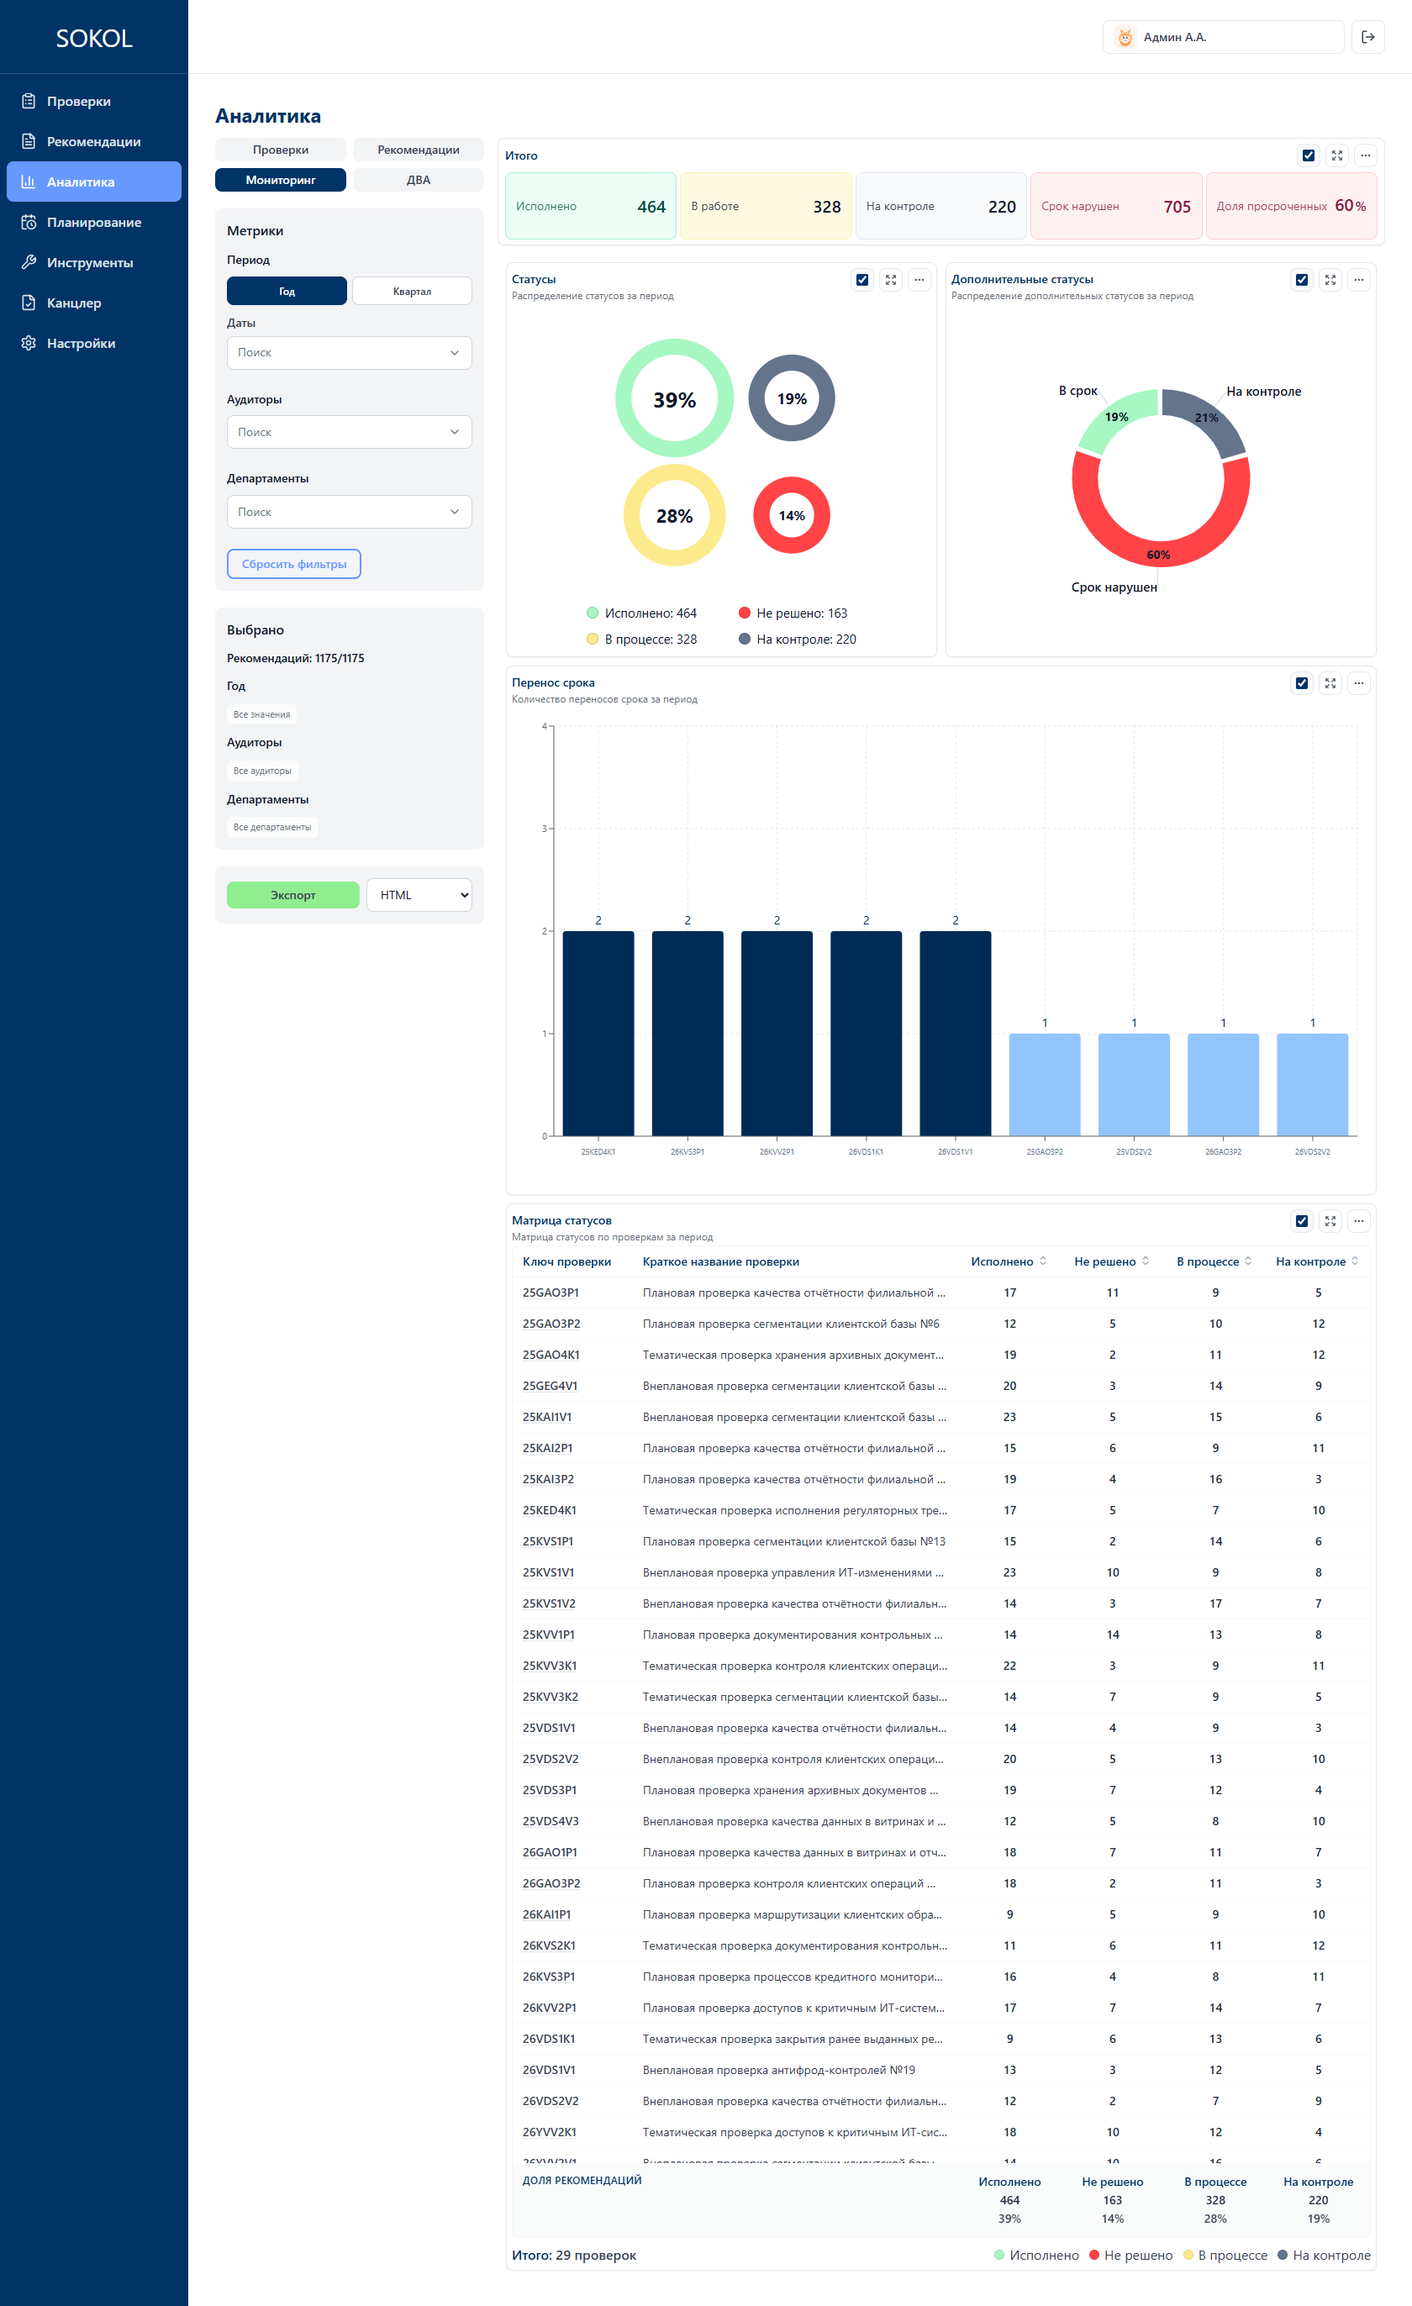
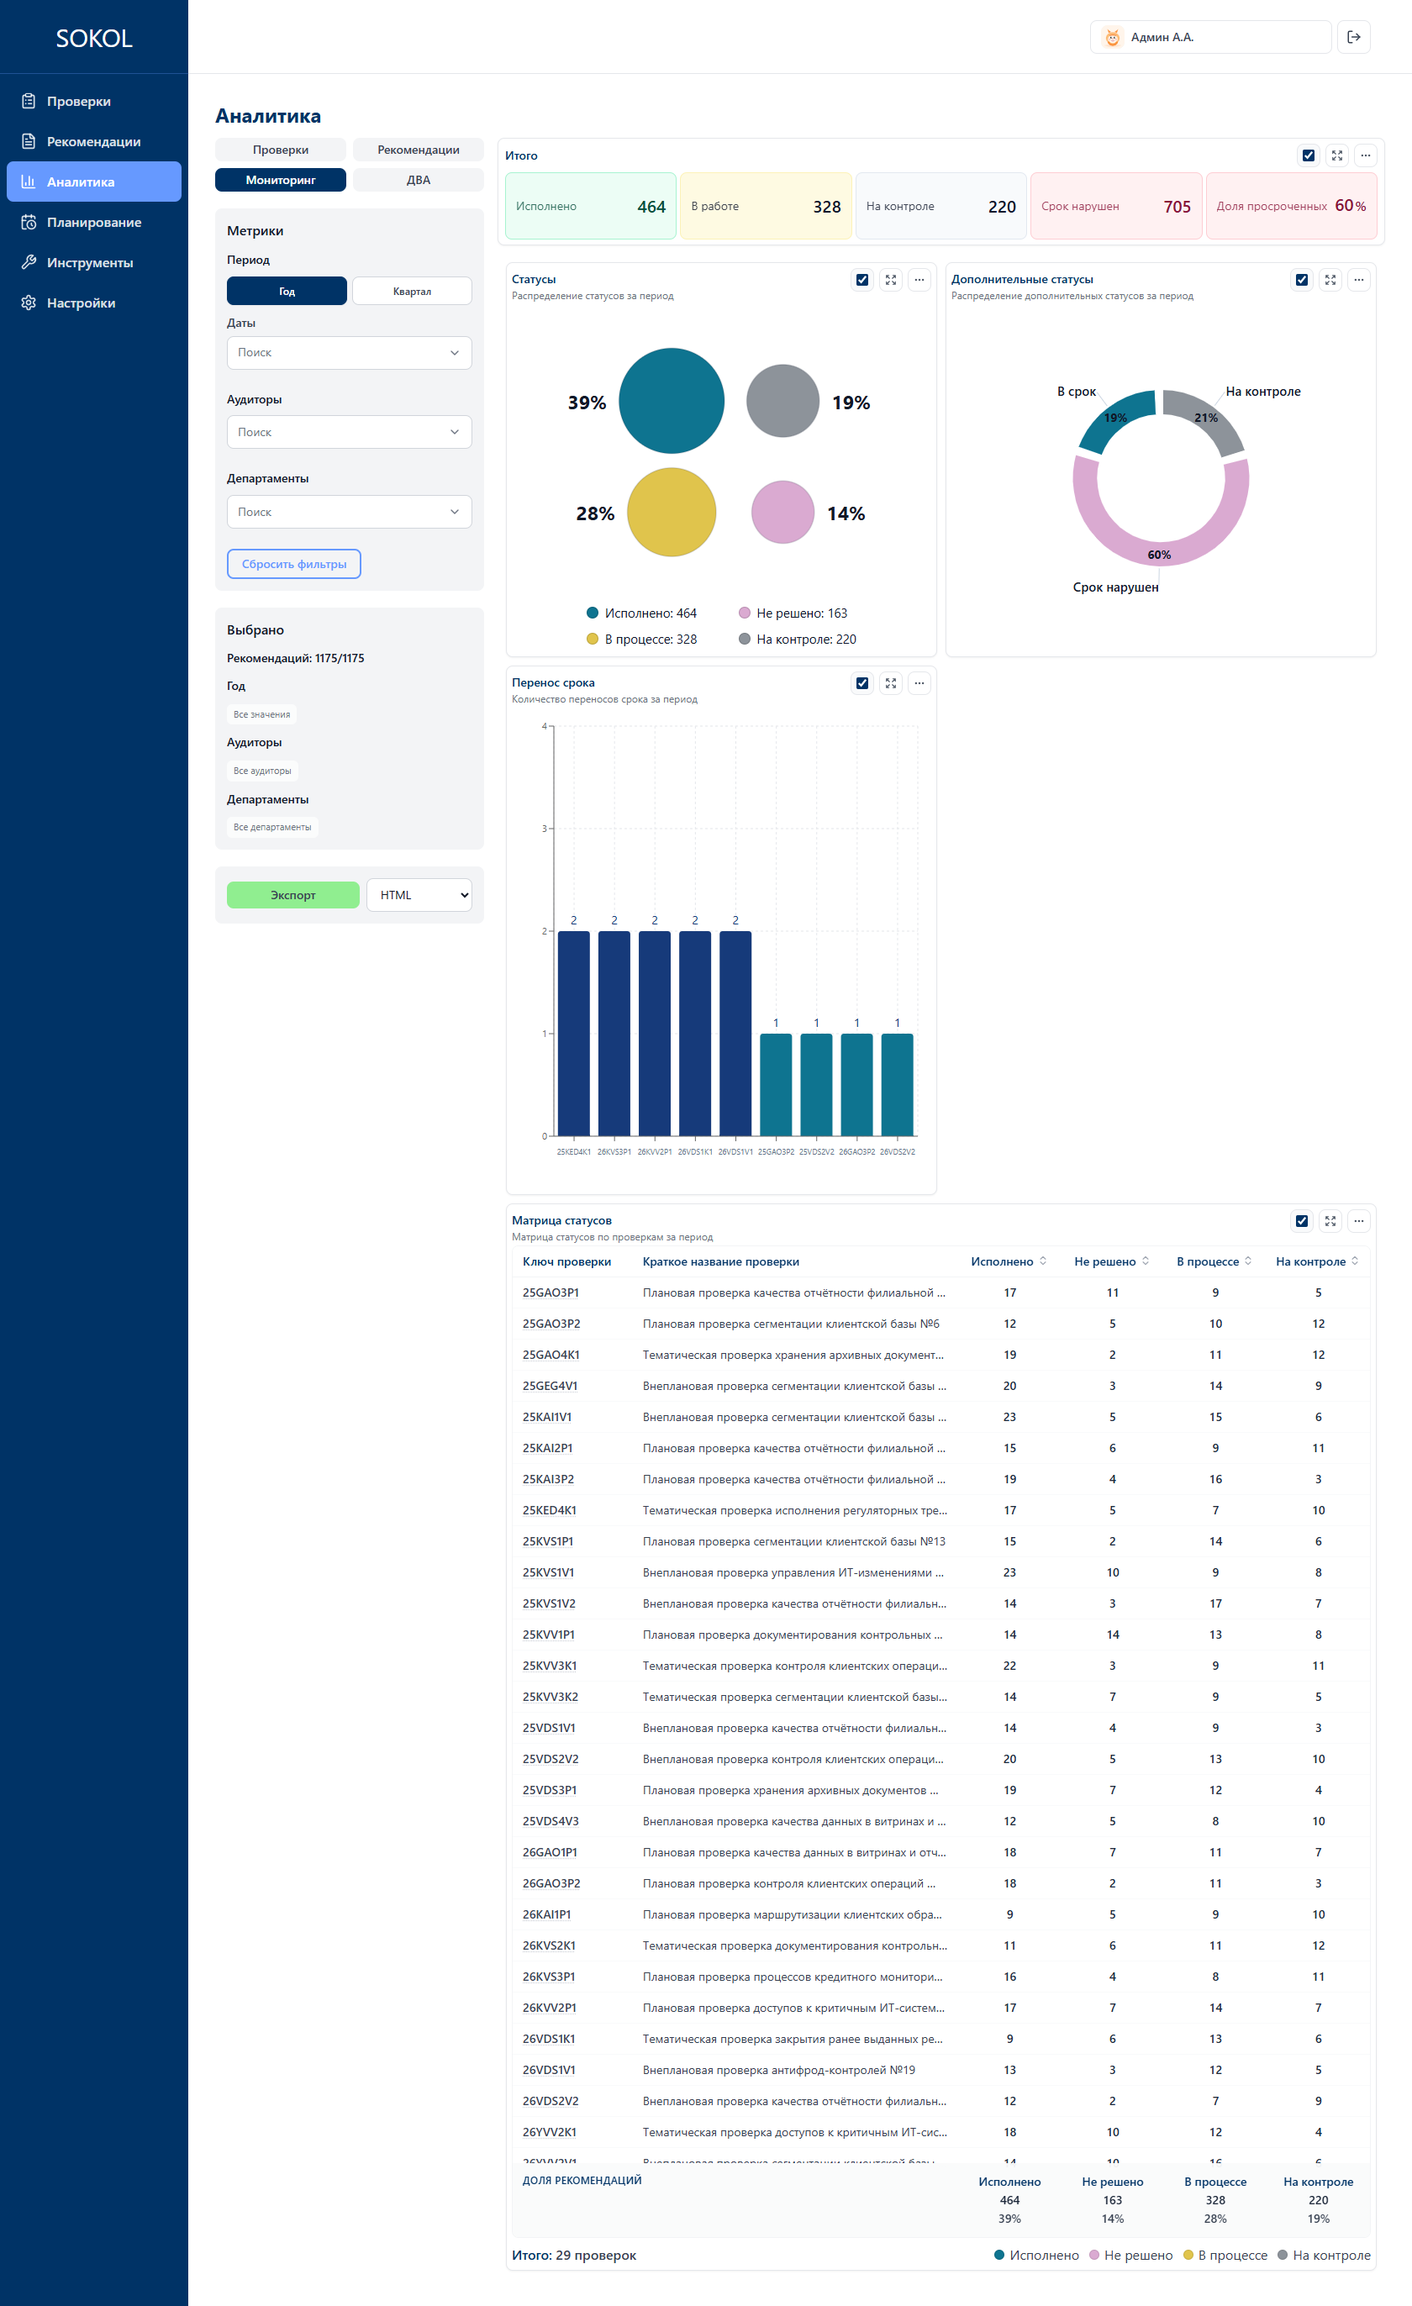
demo

diff --git a/sokol-frontend/src/components/analytics/MonitoringAnalyticsDashboard.tsx b/sokol-frontend/src/components/analytics/MonitoringAnalyticsDashboard.tsx
@@ -19,6 +19,7 @@ import { AnalyticsFilterSidebar } from './AnalyticsFilterSidebar';
 import { AnalyticsSelectionSummary, filterSelectionItem } from './AnalyticsSelectionSummary';
 import {
   ChartCard,
+  CHART_AXIS_TICK,
   CHART_TOOLTIP_STYLE,
   CHART_VALUE_LABEL_SIZE,
   EmptyChart,
@@ -54,28 +55,38 @@ const EMPTY_ADDITIONAL_STATUS_DISTRIBUTION: never[] = [];
 const EMPTY_STATUS_DISTRIBUTION: never[] = [];
 const EMPTY_STATUS_MATRIX: never[] = [];
 const EMPTY_DEADLINE_EXTENSIONS: never[] = [];
+const EMPTY_COMPLETED_DURING_AUDIT: never[] = [];
+
+function checkBarTooltipLabel(label: unknown, shortNameByKey: Map<string, string>) {
+  const key = String(label);
+  const shortName = shortNameByKey.get(key);
+  return shortName && shortName !== key ? `${key} — ${shortName}` : key;
+}
 
 function CheckKeyAxisTick({
   x = 0,
   y = 0,
   payload,
   shortNameByKey,
+  orientation = 'bottom',
 }: {
   x?: number | string;
   y?: number | string;
   payload?: { value?: string };
   shortNameByKey: Map<string, string>;
+  orientation?: 'bottom' | 'left';
 }) {
   const key = String(payload?.value ?? '');
-  const shortName = shortNameByKey.get(key) || key;
+  const isLeft = orientation === 'left';
   return (
     <g transform={`translate(${x},${y})`}>
-      <title>{shortName}</title>
+      <title>{checkBarTooltipLabel(key, shortNameByKey)}</title>
       <text
-        dy={14}
-        textAnchor="middle"
+        x={isLeft ? -4 : 0}
+        dy={isLeft ? 4 : 14}
+        textAnchor={isLeft ? 'end' : 'middle'}
         fill="#64748B"
-        fontSize={9}
+        fontSize={isLeft ? 11 : 9}
       >
         {key}
       </text>
@@ -179,6 +190,7 @@ export function MonitoringAnalyticsDashboard() {
     statusMatrixSortRef.current = sortConfig;
   }, []);
   const deadlineExtensionsByCheck = data?.deadlineExtensionsByCheck ?? EMPTY_DEADLINE_EXTENSIONS;
+  const completedDuringAuditByCheck = data?.completedDuringAuditByCheck ?? EMPTY_COMPLETED_DURING_AUDIT;
   const universeTotal = data?.universeTotal ?? 0;
   const filteredTotal = data?.filteredTotal ?? 0;
 
@@ -189,7 +201,15 @@ export function MonitoringAnalyticsDashboard() {
   const deadlineExtensionColors = useMemo(
     () => applyValueBasedColors(deadlineExtensionsByCheck, MONITORING_BAR_BLUE_SCALE).map((item) => item.color),
     [deadlineExtensionsByCheck],
-  ); // navy → emerald #0E7490, not ice blue
+  );
+  const completedDuringAuditShortNames = useMemo(
+    () => new Map(completedDuringAuditByCheck.map((item) => [item.key, item.shortName || item.name || item.key])),
+    [completedDuringAuditByCheck],
+  );
+  const completedDuringAuditColors = useMemo(
+    () => applyValueBasedColors(completedDuringAuditByCheck, MONITORING_BAR_BLUE_SCALE).map((item) => item.color),
+    [completedDuringAuditByCheck],
+  );
 
   const coloredAdditionalStatusDistribution = useMemo(
     () =>
@@ -352,11 +372,7 @@ export function MonitoringAnalyticsDashboard() {
                     <Tooltip
                       contentStyle={CHART_TOOLTIP_STYLE}
                       formatter={(value) => [value, 'Переносов']}
-                      labelFormatter={(label) => {
-                        const key = String(label);
-                        const shortName = deadlineExtensionShortNames.get(key);
-                        return shortName && shortName !== key ? `${key} — ${shortName}` : key;
-                      }}
+                      labelFormatter={(label) => checkBarTooltipLabel(label, deadlineExtensionShortNames)}
                     />
                     <Bar dataKey="value" name="Переносов" fill={lastScaleColor(MONITORING_BAR_BLUE_SCALE)} radius={[4, 4, 0, 0]}>
                       {deadlineExtensionsByCheck.map((item, index) => (
@@ -368,6 +384,61 @@ export function MonitoringAnalyticsDashboard() {
                         fontSize={CHART_VALUE_LABEL_SIZE}
                         fill={lastScaleColor(MONITORING_BAR_BLUE_SCALE)}
                         offset={8}
+                      />
+                    </Bar>
+                  </BarChart>
+                </ResponsiveContainer>
+              </div>
+            )}
+          </ChartCard>
+        ),
+      },
+      {
+        id: 'completedDuringAudit',
+        defaultLayout: { x: 6, y: 5, w: 6, h: 4, minW: 3, minH: 3 },
+        render: () => (
+          <ChartCard
+            title="Исполнено в ходе аудита"
+            description="Количество рекомендаций со статусом «исполнено в ходе аудита» по проверкам за период"
+            exportSectionId="completedDuringAudit"
+            exportSelected={exportSections.isSelected('completedDuringAudit')}
+            onToggleExport={() => exportSections.toggleSection('completedDuringAudit')}
+          >
+            {completedDuringAuditByCheck.length === 0 ? (
+              <EmptyChart message="Нет данных" />
+            ) : (
+              <div className="h-full min-h-[14rem]">
+                <ResponsiveContainer width="100%" height="100%">
+                  <BarChart
+                    data={completedDuringAuditByCheck}
+                    layout="vertical"
+                    margin={{ top: 8, right: 40, left: 8, bottom: 0 }}
+                  >
+                    <CartesianGrid strokeDasharray="3 3" stroke="#E5E7EB" />
+                    <XAxis type="number" allowDecimals={false} tick={CHART_AXIS_TICK} />
+                    <YAxis
+                      dataKey="key"
+                      type="category"
+                      width={88}
+                      interval={0}
+                      tick={(props) => (
+                        <CheckKeyAxisTick {...props} orientation="left" shortNameByKey={completedDuringAuditShortNames} />
+                      )}
+                    />
+                    <Tooltip
+                      contentStyle={CHART_TOOLTIP_STYLE}
+                      formatter={(value) => [value, 'Рекомендаций']}
+                      labelFormatter={(label) => checkBarTooltipLabel(label, completedDuringAuditShortNames)}
+                    />
+                    <Bar dataKey="value" name="Рекомендаций" fill={lastScaleColor(MONITORING_BAR_BLUE_SCALE)} radius={[0, 4, 4, 0]}>
+                      {completedDuringAuditByCheck.map((item, index) => (
+                        <Cell key={item.id} fill={completedDuringAuditColors[index]} />
+                      ))}
+                      <LabelList
+                        dataKey="value"
+                        position="right"
+                        fontSize={CHART_VALUE_LABEL_SIZE}
+                        fill={lastScaleColor(MONITORING_BAR_BLUE_SCALE)}
                       />
                     </Bar>
                   </BarChart>
@@ -400,6 +471,9 @@ export function MonitoringAnalyticsDashboard() {
     [
       coloredAdditionalStatusDistribution,
       coloredStatusDistribution,
+      completedDuringAuditByCheck,
+      completedDuringAuditColors,
+      completedDuringAuditShortNames,
       deadlineExtensionColors,
       deadlineExtensionShortNames,
       deadlineExtensionsByCheck,

diff --git a/sokol-frontend/src/components/analytics/analyticsPalette.test.ts b/sokol-frontend/src/components/analytics/analyticsPalette.test.ts
@@ -57,11 +57,11 @@ describe('applyValueBasedColors', () => {
 });
 
 describe('MONITORING_STATUS_COLORS', () => {
-  it('keeps teal and dusty lilac, and uses grey / gold for the middle statuses', () => {
+  it('keeps teal and dusty lilac, and uses light grey / pale yellow for the middle statuses', () => {
     expect(MONITORING_STATUS_COLORS.completed).toBe('#0E7490');
     expect(MONITORING_STATUS_COLORS.unresolved).toBe('#DAAAD1');
-    expect(MONITORING_STATUS_COLORS.on_control).toBe('#8D939A');
-    expect(MONITORING_STATUS_COLORS.in_progress).toBe('#E0C44C');
+    expect(MONITORING_STATUS_COLORS.on_control).toBe('#DBDBDB');
+    expect(MONITORING_STATUS_COLORS.in_progress).toBe('#FFFFB9');
   });
 });
 

diff --git a/sokol-frontend/src/components/analytics/analyticsPalette.ts b/sokol-frontend/src/components/analytics/analyticsPalette.ts
@@ -102,12 +102,13 @@ export const MONITORING_VALUE_SCALE = [
 
 /**
  * Semantic colors for Monitoring status circles.
- * Teal and dusty lilac stay as-is; in-progress is the KPI yellow (#FBEB8D) darkened; on-control is a cool grey.
+ * Teal and dusty lilac stay as-is; in-progress is pale yellow rgb(255, 255, 185);
+ * on-control is light grey rgb(219, 219, 219).
  */
 export const MONITORING_STATUS_COLORS = {
   completed: '#0E7490',
-  in_progress: '#E0C44C',
-  on_control: '#8D939A',
+  in_progress: '#FFFFB9',
+  on_control: '#DBDBDB',
   unresolved: '#DAAAD1',
 } as const;
 

diff --git a/sokol-frontend/src/constants/analyticsExportSections.ts b/sokol-frontend/src/constants/analyticsExportSections.ts
@@ -29,6 +29,12 @@ export const MONITORING_EXPORT_SECTIONS = [
     sheetName: 'Перенос срока',
     headerFill: '003366',
   },
+  {
+    id: 'completedDuringAudit',
+    label: 'Исполнено в ходе аудита',
+    sheetName: 'Исполнено в ходе аудита',
+    headerFill: '003366',
+  },
   { id: 'statusMatrix', label: 'Матрица статусов', sheetName: 'Матрица статусов', headerFill: '0891B2' },
 ] as const;
 

diff --git a/sokol-frontend/src/api/analytics.ts b/sokol-frontend/src/api/analytics.ts
@@ -127,6 +127,7 @@ export type MonitoringAnalyticsResponse = {
   indicatorDistribution: NamedCount[];
   statusMatrix: StatusMatrixRow[];
   deadlineExtensionsByCheck: DeadlineExtensionByCheckRow[];
+  completedDuringAuditByCheck: DeadlineExtensionByCheckRow[];
   filterOptions: AnalyticsFilterOptions & { auditors: string[] };
 };
 

diff --git a/sokol-backend/app/services/analytics/sql_aggregates.py b/sokol-backend/app/services/analytics/sql_aggregates.py
@@ -103,6 +103,7 @@ __all__ = [
     "load_effectiveness_matrix_rows",
     "load_recommendation_department_rows",
     "recommendation_check_links_sql",
+    "recommendation_completed_during_audit_by_check_sql",
     "recommendation_deadline_extensions_by_check_sql",
     "recommendation_indicator_distribution_sql",
     "recommendation_materiality_matrix_sql",
@@ -485,6 +486,33 @@ async def recommendation_deadline_extensions_by_check_sql(
         )
         for item in sorted(totals.values(), key=lambda entry: (-int(entry["value"]), str(entry["key"])))
     ]
+
+
+async def recommendation_completed_during_audit_by_check_sql(
+    session: AsyncSession, **filters: Any
+) -> list[DeadlineExtensionByCheckRow]:
+    statement = apply_recommendation_filters(
+        recommendation_grouped_by_check(
+            count_if(Recommendation.indicator == "исполнено в ходе аудита", "value"),
+        ),
+        **filters,
+    )
+    result: list[DeadlineExtensionByCheckRow] = []
+    for row in await fetch_all(session, statement):
+        value = int(row.value or 0)
+        if value <= 0:
+            continue
+        identity = check_group_identity(row)
+        result.append(
+            DeadlineExtensionByCheckRow(
+                id=identity.id,
+                key=identity.key,
+                short_name=identity.short_name,
+                name=identity.name,
+                value=value,
+            )
+        )
+    return sorted(result, key=lambda item: (-item.value, item.key))
 
 
 async def recommendation_check_links_sql(session: AsyncSession, **filters: Any) -> list[NamedCount]:

diff --git a/sokol-backend/app/api/v1/endpoints/analytics.py b/sokol-backend/app/api/v1/endpoints/analytics.py
@@ -22,6 +22,7 @@ from app.services.analytics.dva_analytics import build_dva_analytics
 from app.services.analytics.planning_analytics import build_planning_analytics
 from app.services.analytics.recommendations_analytics import build_recommendations_analytics
 from app.services.analytics.sql_aggregates import (
+    recommendation_completed_during_audit_by_check_sql,
     recommendation_deadline_extensions_by_check_sql,
     recommendation_status_matrix_sql,
 )
@@ -102,6 +103,9 @@ async def get_monitoring_analytics(
         indicator_distribution=full.indicator_distribution,
         status_matrix=await recommendation_status_matrix_sql(session, **recommendation_filters),
         deadline_extensions_by_check=await recommendation_deadline_extensions_by_check_sql(
+            session, **recommendation_filters
+        ),
+        completed_during_audit_by_check=await recommendation_completed_during_audit_by_check_sql(
             session, **recommendation_filters
         ),
         filter_options=full.filter_options,

diff --git a/sokol-backend/app/schemas/analytics.py b/sokol-backend/app/schemas/analytics.py
@@ -220,6 +220,9 @@ class MonitoringAnalyticsResponse(BaseModel):
     deadline_extensions_by_check: list[DeadlineExtensionByCheckRow] = Field(
         serialization_alias="deadlineExtensionsByCheck"
     )
+    completed_during_audit_by_check: list[DeadlineExtensionByCheckRow] = Field(
+        serialization_alias="completedDuringAuditByCheck"
+    )
     filter_options: ChecksAnalyticsFilterOptions = Field(serialization_alias="filterOptions")
 
 

diff --git a/sokol-frontend/docs/ANALYTICS.md b/sokol-frontend/docs/ANALYTICS.md
@@ -37,7 +37,7 @@
 
 ## Вкладка «Мониторинг»
 
-Тот же фильтр/источник, что рекомендации; узкий срез по исполнению сроков. Карточки: Сводка KPI, Динамика сроков, Статусы, Срок исполнения.
+Тот же фильтр/источник, что рекомендации; узкий срез по исполнению сроков. Карточки: Сводка KPI, Статусы, Срок исполнения, Перенос срока, Исполнено в ходе аудита, Матрица статусов.
 
 ## Вкладка «ДВА»
 
